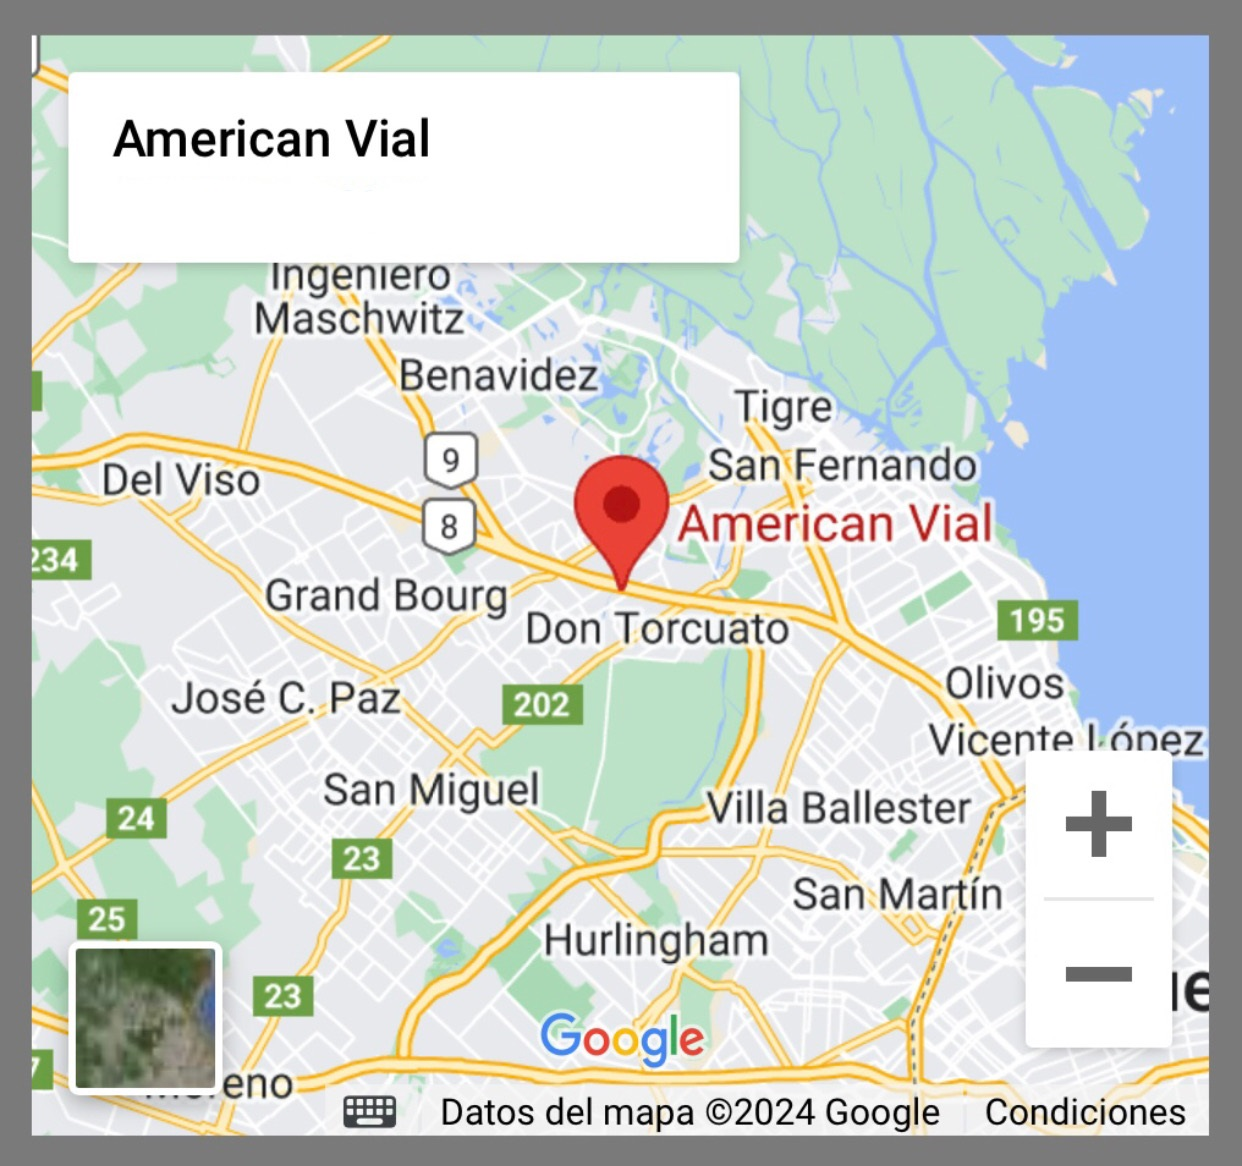
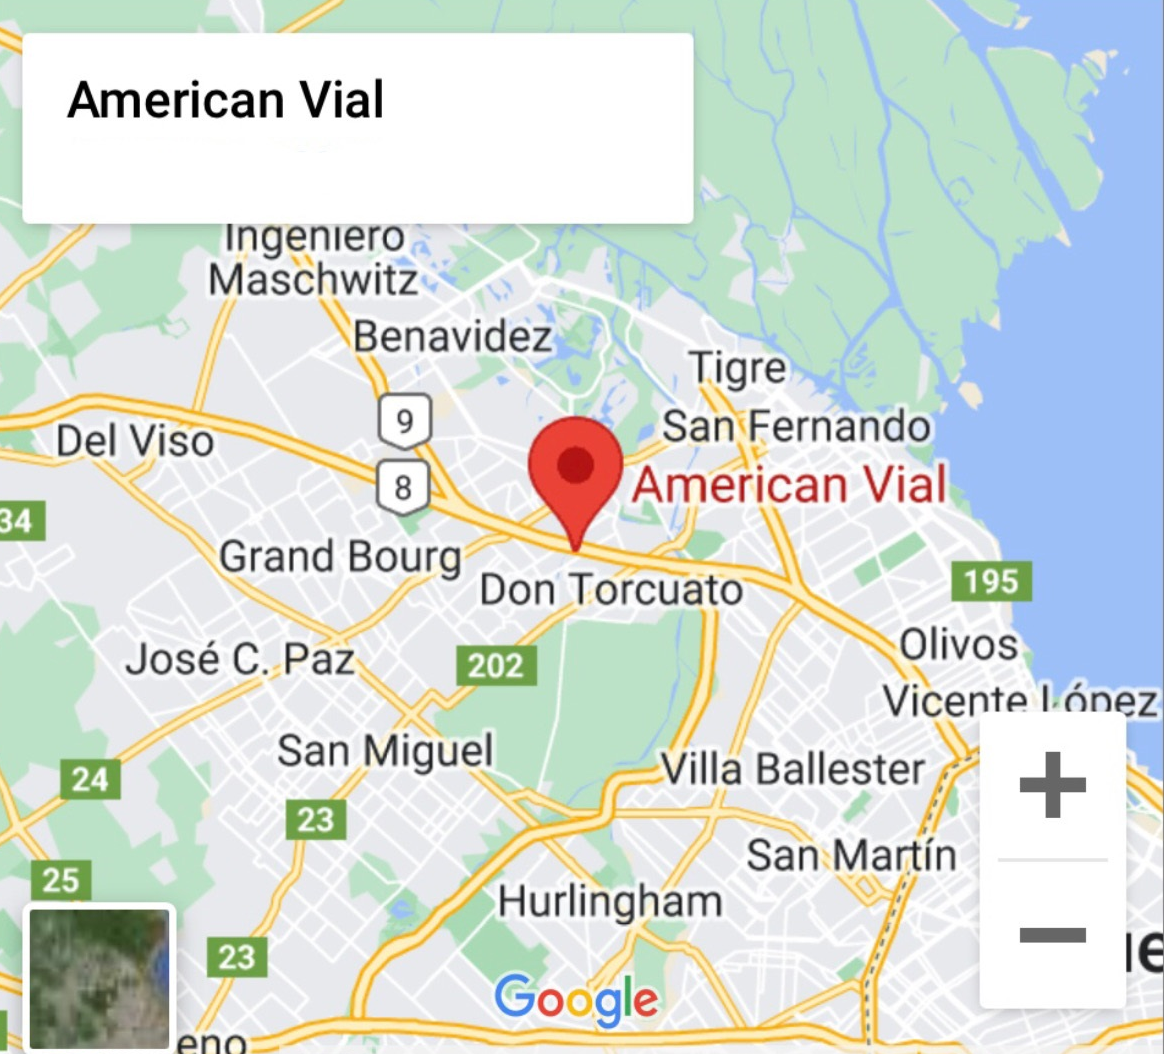
terminado?

diff --git a/client/src/index.css b/client/src/index.css
@@ -127,7 +127,7 @@ button:focus-visible {
     box-shadow 0.3s ease;
 }
 
-@media (max-width: 1200px) and (min-width: 1000px) {
+@media (max-width: 1400px) and (min-width: 1000px) {
   .grid-container {
     grid-template-columns: repeat(3, 1fr);
   }
@@ -1403,7 +1403,7 @@ button:focus-visible {
 
 .white-bar {
   background-color: black;
-  padding: 10px 0;
+  padding: 10px 20px;
   text-align: center;
   display: flex;
   height: 150px;
@@ -1482,6 +1482,31 @@ button:focus-visible {
    top:-16px
   }
 }
+
+@media screen and (max-width: 1240px) {
+  .white-bar .burguer-icon-front  {
+   position: absolute;
+   right: 85px;
+   top:27px
+  }
+}
+
+@media screen and (max-width: 600px) {
+  .white-bar.fixed .admin  {
+   position: absolute;
+   right: 10px;
+   top:60px
+  }
+}
+
+@media screen and (max-width: 600px) {
+  .white-bar.fixed .nombreapellidoadmin  {
+   position: absolute;
+   right: 10px;
+   top:30px
+  }
+}
+
 
 @media screen and (max-width: 850px) {
   .white-bar img {
@@ -1600,17 +1625,7 @@ button:focus-visible {
   font-size: 26px;
 }
 
-@media screen and (max-width: 750px) and (min-width: 551px) {
- .white-bar .burguer-icon-front {
-    margin-right: 0px;
-  }
-}
 
-@media screen and (max-width: 750px) and (min-width: 551px) {
-  .white-bar.fixed .burguer-icon-front {
-     margin-right: 25px;
-   }
- }
 
 @media screen and (max-width: 1240px) {
   .burguer-icon-front {
@@ -2672,11 +2687,7 @@ button:focus-visible {
   }
 }
 
-@media (max-width: 1100px) {
-  .DetalleCard {
-    max-width: 100%;
-  }
-}
+
 
 @media (max-width: 1100px) {
   .CarrouselImg {
@@ -2697,46 +2708,19 @@ button:focus-visible {
   color: #555;
   margin-bottom: 8px;
 }
-
-.container {
-  position: relative;
-}
-
-.container .carousel .slide {
-  margin-right: 10px;
-}
-
-.container .carousel .slide img {
-  border-radius: 10px;
-}
-
-.container .carousel .control-dots .dot {
-  background-color: #bbb;
-  border-radius: 50%;
-}
-
-.container .carousel .control-dots .dot.selected {
-  background-color: #333;
-}
-
-.detalles-container {
-  background-color: #f4f4f4;
-  padding: 20px;
-  justify-content: center;
-}
-
 .detalle-info {
   background-color: #f4f4f4;
   padding: 20px;
   max-width: 50%;
   width: 100%;
   height: 450px;
+  flex: 1;
 }
 
 @media (max-width: 1100px) {
-  .detalle-info {
-    width: 100%;
+  .DetalleCard, .detalle-info {
     max-width: 100%;
+    width: 100%;
   }
 }
 
@@ -2764,6 +2748,7 @@ button:focus-visible {
   font-weight: bold;
   margin-right: 8px;
   flex-basis: 160px;
+
 }
 
 .detalle-info span {
@@ -2793,6 +2778,35 @@ button:focus-visible {
   margin-right: 8px;
   color: green;
 }
+
+.container {
+  position: relative;
+}
+
+.container .carousel .slide {
+  margin-right: 10px;
+}
+
+.container .carousel .slide img {
+  border-radius: 10px;
+}
+
+.container .carousel .control-dots .dot {
+  background-color: #bbb;
+  border-radius: 50%;
+}
+
+.container .carousel .control-dots .dot.selected {
+  background-color: #333;
+}
+
+.detalles-container {
+  background-color: #f4f4f4;
+  padding: 20px;
+  justify-content: center;
+}
+
+
 
 .form-submit-custom {
   background-color: #000;
@@ -2954,7 +2968,7 @@ button:focus-visible {
 }
 
 .appadmin {
-  justify-content: center;
+  margin: auto;
   width: 80%;
   max-width: 100%;
 }
@@ -4241,7 +4255,7 @@ button:focus-visible {
 .white-bar .headerSearchBarClick {
  position: fixed;
 right: 0px;
-top: 20%;
+top: 150px;
 background-color: rgba(0, 0, 0, 0.8);
   box-shadow: 0 6px 12px rgba(0, 0, 0, 0.2);
   padding: 10px; 
@@ -4253,7 +4267,7 @@ background-color: rgba(0, 0, 0, 0.8);
 }
 
 .white-bar.fixed .headerSearchBarClick {
-  top:13%
+  top:100px
 }
 
 
@@ -4285,7 +4299,7 @@ background-color: rgba(0, 0, 0, 0.8);
 }
 
 .cerrar-searchbar:hover {
-  background: #ff9900; 
+  background: #e7f520; 
   transform: scale(1.05); 
 }
 
@@ -4352,6 +4366,7 @@ background-color: rgba(0, 0, 0, 0.8);
   
 }
 
+
 .white-bar.fixed .headerNavBarClick .dropdownEquipos button,
 .white-bar.fixed .headerNavBarClick .dropdownEquipos span {
   color: white;
@@ -4375,7 +4390,7 @@ background-color: rgba(0, 0, 0, 0.8);
   .white-bar.fixed .headerNavBarClick .dropdownEquipos  {
     grid-template-columns: repeat(3, 2fr);
     position: absolute;
-    left: 60px
+    left: 40px
   }
 
   @media (max-width: 510px) {
@@ -4453,6 +4468,21 @@ left: -10%;
     padding: 10px 0;
   }
 }
+
+/* Container for the carousel */
+.carrousel-container-css {
+  position: relative;
+  width: 100vw; /* Full width of the viewport */
+  height: 100vh; /* Full height of the viewport */
+  box-shadow: 0 8px 16px rgba(0, 0, 0, 0.5); /* Strong shadow effect */
+  overflow: hidden;
+}
+
+
+
+
+
+
 
 
 

diff --git a/client/src/pages/FooterAlternativo.jsx b/client/src/pages/FooterAlternativo.jsx
@@ -189,8 +189,8 @@ export default function FooterAlternativo() {
               </div>
             </div>
             <h4>Ubicación</h4>
-            <img src={MAPS} style={{ maxWidth: "70%", width: "100%" }} />
-            <p style={{ fontWeight: "bold", marginTop: "0.5rem" }}>
+            <img src={MAPS} style={{ maxWidth: "50%", width: "70%" }} />
+            <p style={{ fontWeight: "bold", marginTop: "2.5rem" }}>
               Panamericana Km 28.250 – Paris 256 esq. Colectora Este,
             </p>
             <p style={{ fontWeight: "bold" }}>
@@ -228,4 +228,25 @@ export default function FooterAlternativo() {
       </div>
     </div>
   );
+}
+
+// COLLAPSE //
+
+{
+  /* <div>
+<a
+  aria-controls="collapseContact"
+  aria-expanded="false"
+  className="nav-link dropdown-toggle"
+  data-bs-toggle="collapse"
+  href="#collapseContact"
+  role="button"
+>
+  <FaUsers className="sidebarIcons text-muted" size="1.50em" />{" "}
+  Contacto
+</a>
+<div className="collapse" id="collapseContact">
+  <Contact />
+</div>
+</div> */
 }

diff --git a/client/src/components/NavBarAlternativo.jsx b/client/src/components/NavBarAlternativo.jsx
@@ -372,6 +372,7 @@ export default function NavBarAlternativo({
             )}
           </div>
           <button
+            className="fiveguys"
             style={{
               background: "none",
             }}
@@ -387,10 +388,13 @@ export default function NavBarAlternativo({
                 <span className="user-info">
                   {role === "vendedor" || role === "administrador" ? (
                     <Link to="/admin">
-                      <button style={{ color: "gray" }}>Admin</button>{" "}
+                      <button className="admin" style={{ color: "gray" }}>
+                        Admin
+                      </button>{" "}
                     </Link>
                   ) : null}
                   <button
+                    className="nombreapellidoadmin"
                     onClick={handleMostrarModalEdit}
                     style={{ color: "gray", marginRight: "5px" }}
                   >

diff --git a/client/src/components/Detalle.jsx b/client/src/components/Detalle.jsx
@@ -21,7 +21,7 @@ export default function Detalle() {
   const { data, isLoading } = useProducto(id).productoQueryById;
   const { data: productos, isLoading: loading } = useProducto(
     null,
-    selectedMarca
+    selectedMarca !== "" ? selectedMarca : null
   ).productoQueryByFamilia;
 
   useEffect(() => {
@@ -67,6 +67,14 @@ export default function Detalle() {
       carouselRef.current.scrollIntoView({ behavior: "smooth" });
     }
   };
+
+  const [key, setKey] = useState(0);
+
+  useEffect(() => {
+    const handleResize = () => setKey((prevKey) => prevKey + 1);
+    window.addEventListener("resize", handleResize);
+    return () => window.removeEventListener("resize", handleResize);
+  }, []);
 
   if (isLoading) {
     return (

diff --git a/client/src/hooks/useProductos.jsx b/client/src/hooks/useProductos.jsx
@@ -54,7 +54,8 @@ export const useProducto = (id, familia) => {
   const productoQueryByFamilia = useQuery({
     queryKey: ["productofamilia", { familia }],
     queryFn: () => productoByFamilia(familia),
-    enabled: familia !== undefined && familia !== null,
+    enabled:
+      familia !== undefined && familia !== null && typeof familia === "string",
   });
 
   const productosParaCotizarQuery = useQuery({
